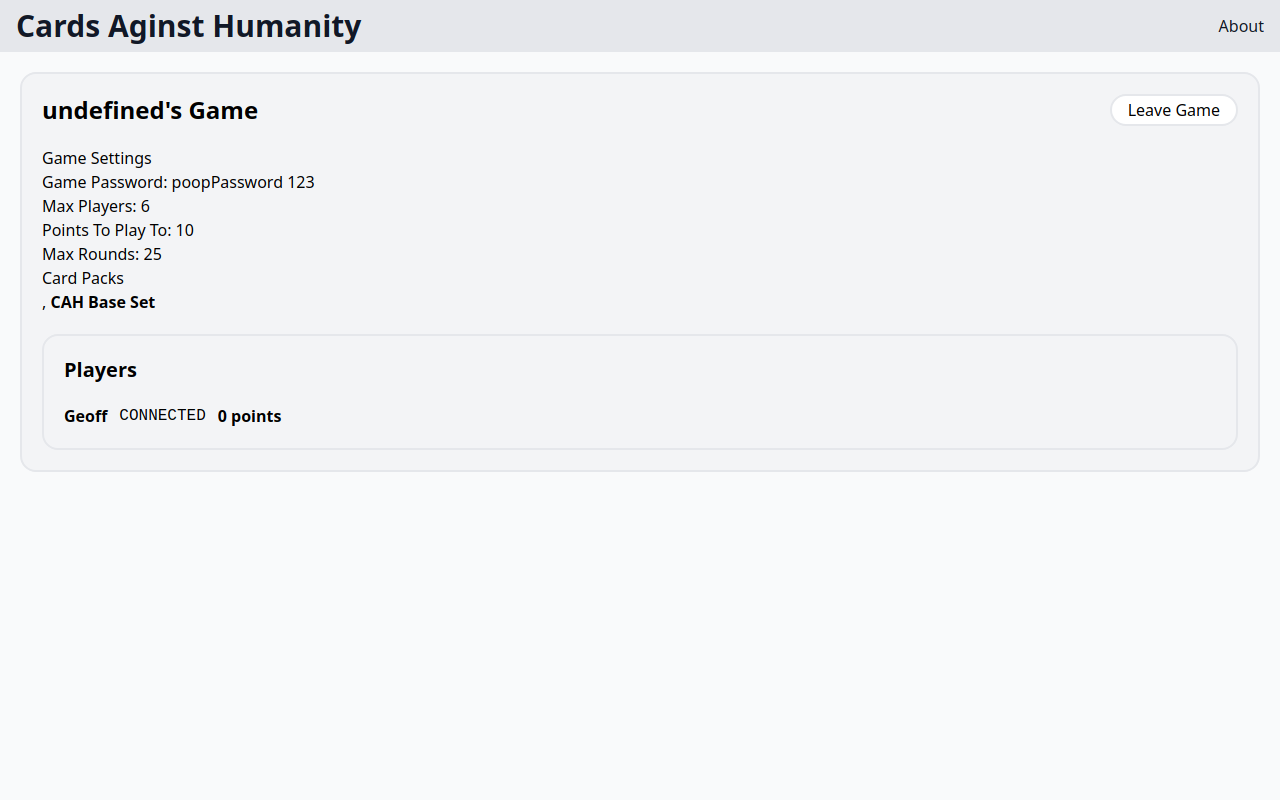
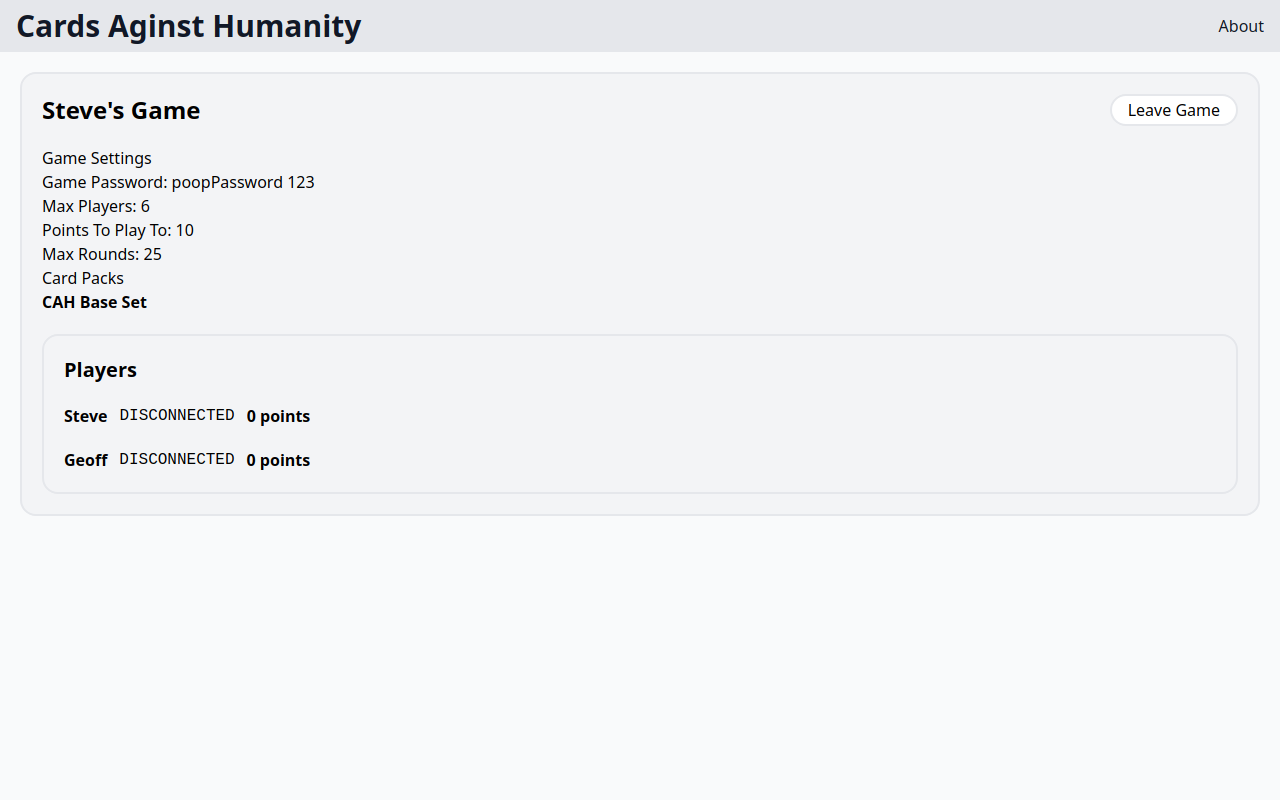
fix: display cards correctly for other players

diff --git a/cahfrontend/src/components/gameControls/GameSettingsView.tsx b/cahfrontend/src/components/gameControls/GameSettingsView.tsx
@@ -1,3 +1,4 @@
+import { For } from "solid-js";
 import { GameSettings } from "../../gameLogicTypes";
 
 interface Props {
@@ -26,22 +27,22 @@ export default function GameSettingsView(props: Readonly<Props>) {
         </p>
       </div>
       <h3>Card Packs</h3>
-      <p>
-        {props.settings.cardPacks
-          .map((pack) => (
-            <span id={pack?.id} class="font-bold">
-              {pack?.name}
-            </span>
-          ))
-          .reduce(
-            (a, b) => (
-              <>
-                {a}, {b}
-              </>
-            ),
-            <></>,
+      <span>
+        <For each={props.settings.cardPacks}>
+          {(pack, i) => (
+            <>
+              <span id={pack?.id} class="font-bold">
+                {pack?.name}
+              </span>
+              {i() == props.settings.cardPacks.length - 1 ? (
+                ""
+              ) : (
+                <span class="pr-2">,</span>
+              )}
+            </>
           )}
-      </p>
+        </For>
+      </span>
     </div>
   );
 }

diff --git a/cahfrontend/src/gameState/gameState.ts b/cahfrontend/src/gameState/gameState.ts
@@ -138,17 +138,19 @@ class GameState {
       gameState: state.gameState,
     };
 
-    this.players = [];
     for (const player of state.players) {
-      this.players.push({
-        id: player.id,
-        name: player.name,
-        connected: player.connected,
-        points: player.points,
-      })
+      if (!this.players.find((x) => x.id === player.id)) {
+        this.players.push({
+          id: player.id,
+          name: player.name,
+          connected: player.connected,
+          points: player.points,
+        });
+      }
     }
 
     this.onLobbyStateChange?.(this.lobbyState);
+    this.onPlayerListChange?.(this.playerList());
   }
 
   public playerList(): GamePlayerList {
